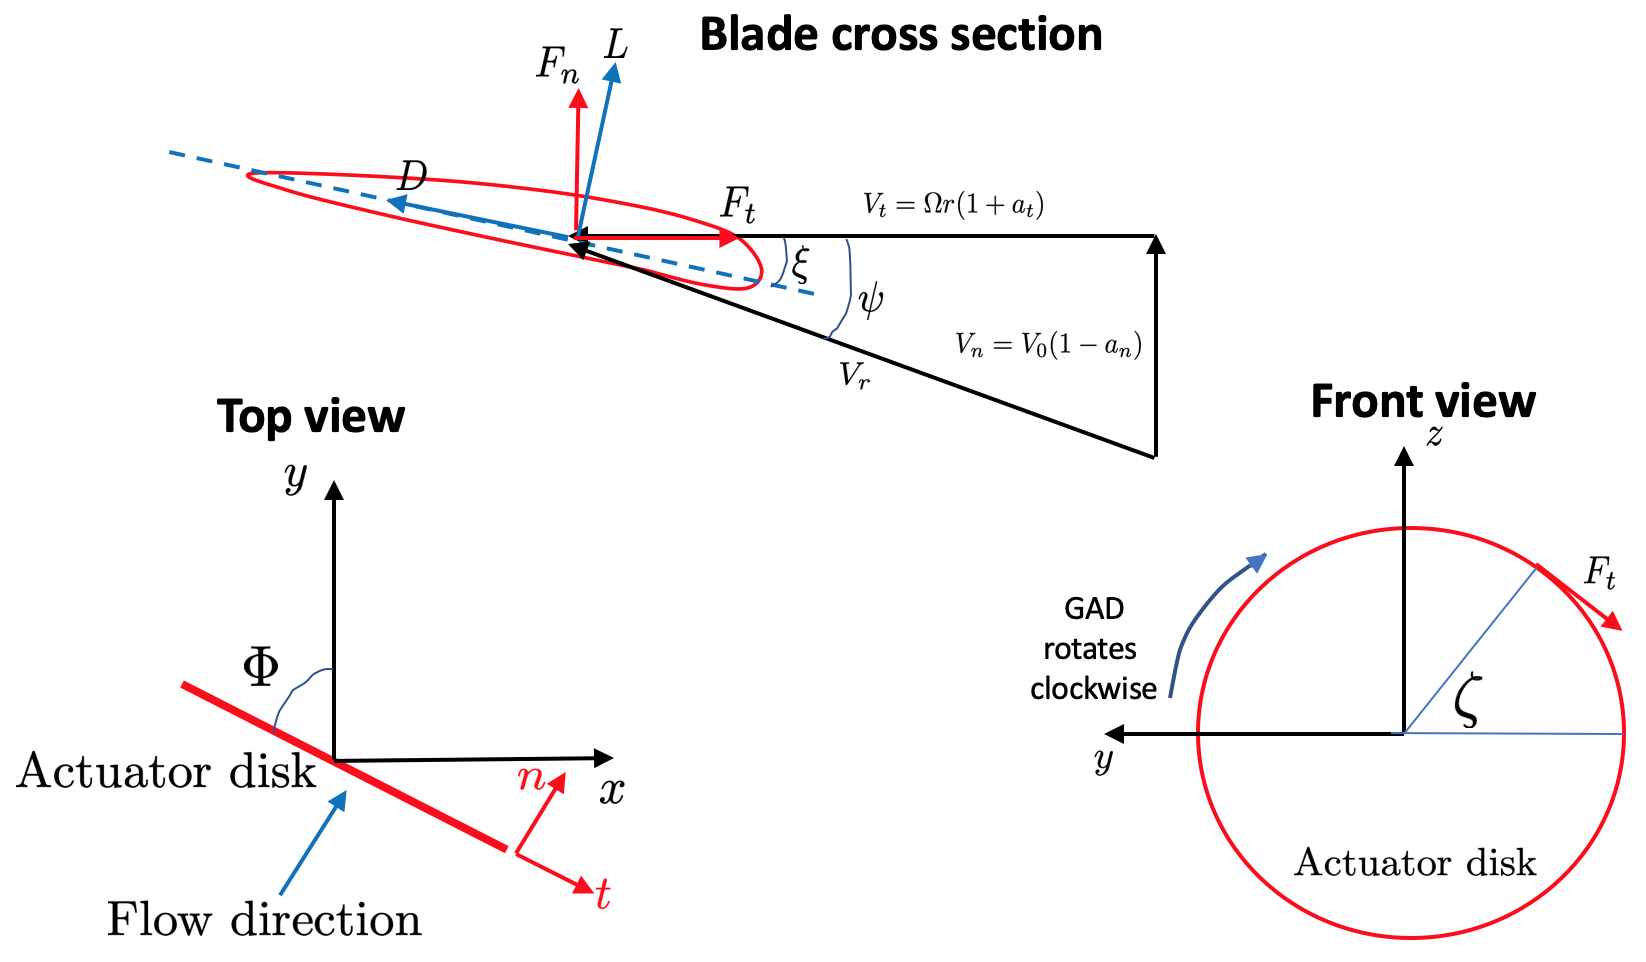
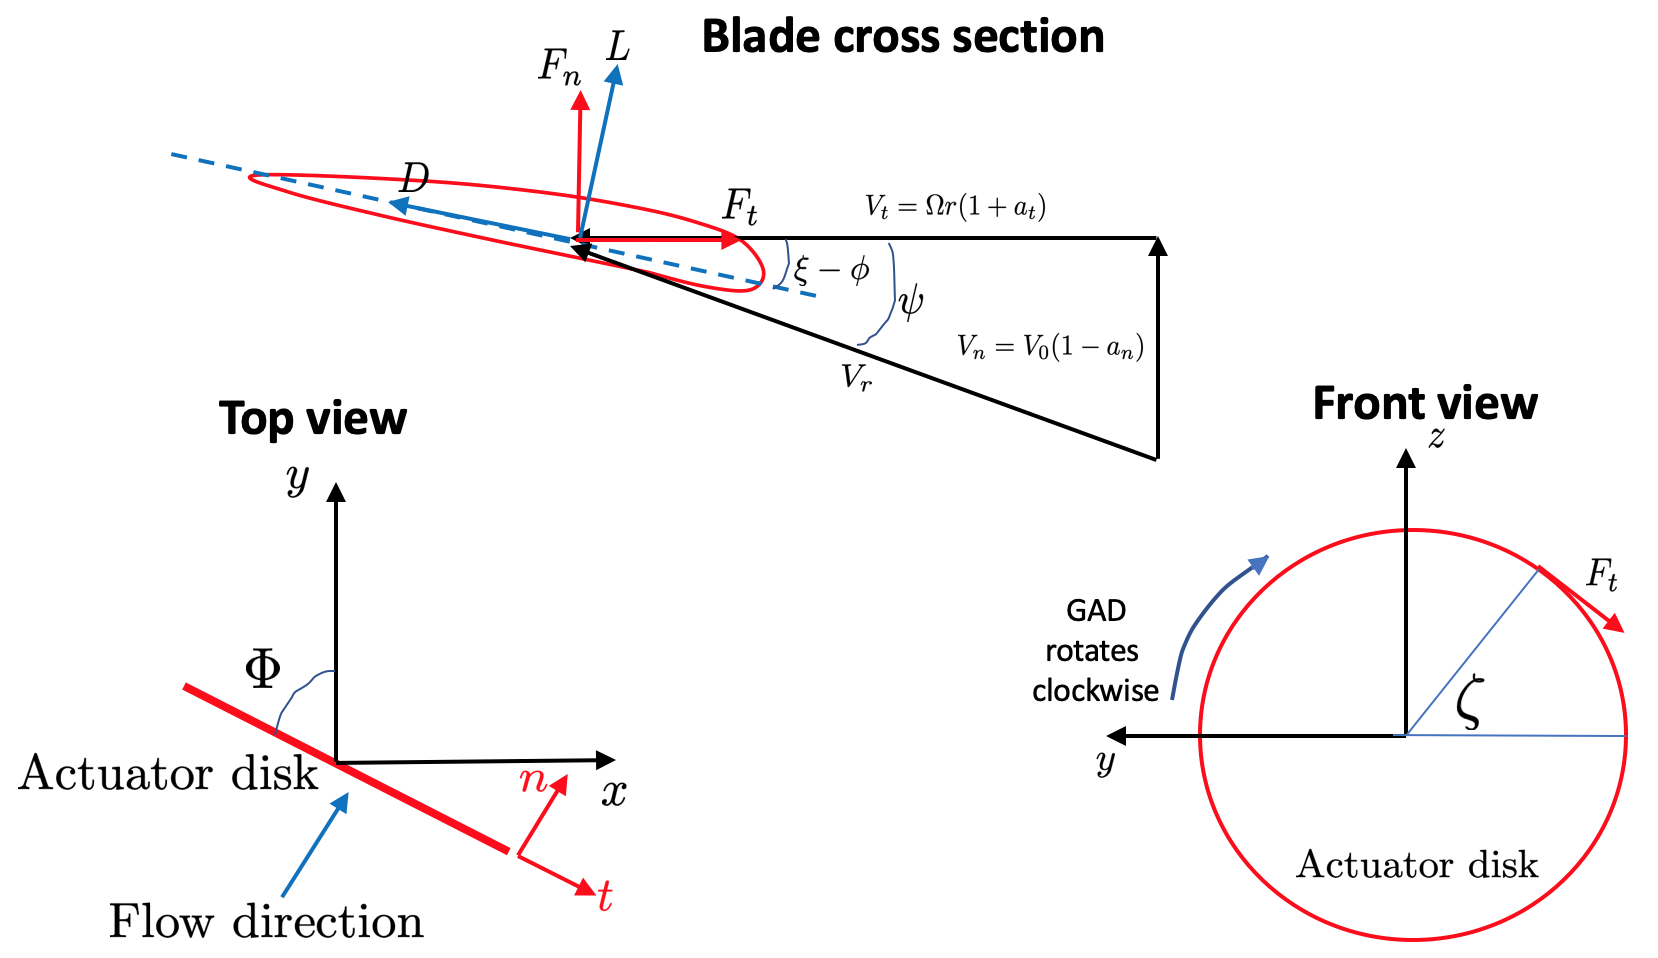
Some updates to docs (#1880)
* Some changes to docs

* Removing whitespaces and tabs

---------

diff --git a/Docs/sphinx_doc/theory/WindFarmModels.rst b/Docs/sphinx_doc/theory/WindFarmModels.rst
@@ -4,7 +4,7 @@ Wind farm models
 Introduction
 -------------
 
-ERF supports models for wind farm parametrization in which the effects of wind turbines are represented by imposing a momentum sink on the mean flow and/or turbulent kinetic energy (TKE). Currently the Fitch model (`Fitch et al. 2012`_), Explicit Wake Parametrization (EWP) model (`Volker et al. 2015`_) and Simplified actuator disk model (See Section 3.2 in `Wind Energy Handbook 2nd edition`_) are supported.
+ERF supports models for wind farm parametrization in which the effects of wind turbines are represented by imposing a momentum sink on the mean flow and/or turbulent kinetic energy (TKE). Currently the Fitch model (`Fitch et al. 2012`_), Explicit Wake Parametrization (EWP) model (`Volker et al. 2015`_), Simplified actuator disk model (See Section 3.2 in `Wind Energy Handbook 2nd edition`_), and Generalized actuator disk model (`Mirocha et. al. 2014`_, see Chapter 3 of `Small Wind Turbines`_) are supported.
 
 .. _Fitch model:
 
@@ -187,7 +187,7 @@ where :math:`dA` is the area of the actuator disk in the mesh cell (see Fig. :nu
 Generalized actuator disk model
 ===============================
 
-The generalized actuator model (GAD) based on blade element theory (`Mirocha et. al. 2014`_, see Chapter 3 of `Small Wind Turbines`_) is implemented. Similar to the simplified actuator disk model, GAD also models the wind turbine as a disk, but takes into account the details of the blade geometry (see :numref:`fig:GAD_Schematic`). The forces on the blades in the x, y, z directions are computed, and that contributes to the source terms for the fluid momentum equations. The source terms in a mesh cell inside the actuator disk are given as:
+The generalized actuator model (GAD) based on blade element theory (`Mirocha et. al. 2014`_, see Chapter 3 of `Small Wind Turbines`_) is implemented. Similar to the simplified actuator disk model, GAD also models the wind turbine as a disk, but takes into account the details of the blade geometry (see Fig. :numref:`fig:GAD_Schematic`). The forces on the blades in the x, y, z directions are computed, and that contributes to the source terms for the fluid momentum equations. The source terms in a mesh cell inside the actuator disk are given as:
 
 .. math::
    :label: GAD_source_terms
@@ -238,7 +238,7 @@ and
    V_n &= V_0(1-a_n) \\
    V_t &= \Omega(1+a_t)r,
 
-where :math:`\Omega` is the rotational speed of the turbine, :math:`r` is the radial location along the blade span, and :math:`a_n` and :math:`a_t` are the normal and tangential induction factors. The lift and drag forces are given by:
+where :math:`V_0` is the freestream velocity at a user specified distance upstream from the disk plane as described in Section :ref:`actuator_disk_model_simplified` (also see Fig. :numref:`fig:ActuatorDisk_Sampling`), :math:`\Omega` is the rotational speed of the turbine, :math:`r` is the radial location along the blade span, and :math:`a_n` and :math:`a_t` are the normal and tangential induction factors. The lift and drag forces are given by:
 
 .. math::
    :label: GAD_L_D
@@ -246,7 +246,7 @@ where :math:`\Omega` is the rotational speed of the turbine, :math:`r` is the ra
    L &= \frac{1}{2} \rho V_r^2 c C_l \\
    D &= \frac{1}{2} \rho V_r^2 c C_d,
 
-where :math:`\rho` is the density of air, :math:`c` is the chord length of the airfoil cross-section, :math:`C_l` and :math:`C_d` are the sectional lift and drag coefficients on the airfoil cross-section, and the relative wind velocity is :math:`V_r = \sqrt{V_n^2 + V_t^2}`. The normal and tangential sectional coefficients are computed as:
+where :math:`\rho` is the density of air, :math:`c` is the chord length of the airfoil cross-section, :math:`C_l` and :math:`C_d` are the sectional lift and drag coefficients on the airfoil cross-section (which is a function of the incoming angle :math:`\psi`, blade twist :math:`\xi`, and blade pitch :math:`\phi`. See Fig. :numref:`fig:GAD_Schematic`), and the relative wind velocity is :math:`V_r = \sqrt{V_n^2 + V_t^2}`. The normal and tangential sectional coefficients are computed as:
 
 .. math::
    :label: GAD_Cn_Ct
@@ -291,8 +291,8 @@ where :math:`r_\text{hub}` and :math:`r_\text{tip}` are the radius of the hub an
 An iterative procedure is needed to compute the source terms, and is as follows:
 
 1. An initial value is assumed for the normal and tangential induction factors :math:`a_n` and :math:`a_t`.
-2. Compute the normal and tangential velocities from Eqn. :eq:`GAD_Vn_Vt`.
-3. From the tables for the `details of the blade geometry`_ and the `sectional coefficients of the airfoil cross sections`_, compute the values of :math:`C_l` and :math:`C_d` corresponding to the radial location :math:`r` along the blade span and the angle of attack :math:`\alpha = \psi - \xi`.
+2. Compute the normal and tangential velocities from Eqn. :eq:`GAD_Vn_Vt`. .
+3. From the tables for the `turbine specifications`_, `details of the blade geometry`_ and the `sectional coefficients of the airfoil cross sections`_, compute the values of :math:`C_l` and :math:`C_d` corresponding to the radial location :math:`r` along the blade span and the angle of attack :math:`\alpha = \psi - \xi + \phi`.
 4. Compute the normal and tangential sectional coefficients :math:`C_n` and :math:`C_t` from Eqn. :eq:`GAD_Cn_Ct`.
 5. Compute the normal and tangential induction factors :math:`a_n` and :math:`a_t` using Eqn. :eq:`GAD_an_at`.
 6. Repeat steps 2 to 5 until the error in the normal and tangential induction factors, :math:`a_n` and :math:`a_t`, are less than :math:`1 \times 10^{-5}`.
@@ -301,16 +301,19 @@ An iterative procedure is needed to compute the source terms, and is as follows:
 9. Compute the forces on the disk using Eqn. :eq:`GAD_forces`.
 10. Compute the source terms in the momentum equation using Eqn. :eq:`GAD_source_terms`.
 
+
+
 .. _fig:GAD_Schematic:
 
 .. figure:: ../figures/GAD_Schematic.png
    :width: 600
    :align: center
 
-   Different views of the GAD showing the forces and angles involved: Blade cross section showing the normal (:math:`V_n`) and tangential (:math:`V_t`) components of velocity with the normal (:math:`a_n`) and tangential (:math:`a_t`) induction factors, relative wind velocity :math:`V_r`, blade twist angle :math:`\xi`, angle of relative wind :math:`\psi`, lift (:math:`L`) and drag (:math:`D`) forces, and normal (:math:`F_n`) and tangential (:math:`F_t`) forces; top view showing the flow direction and inclination angle :math:`\Phi`; and front view showing the actuator disk rotating clockwise.
+   Different views of the GAD showing the forces and angles involved: Blade cross section showing the normal (:math:`V_n`) and tangential (:math:`V_t`) components of velocity with the normal (:math:`a_n`) and tangential (:math:`a_t`) induction factors, relative wind velocity :math:`V_r`, blade twist angle :math:`\xi`, angle of relative wind :math:`\psi`, blade pitch angle :math:`\phi`, lift (:math:`L`) and drag (:math:`D`) forces, and normal (:math:`F_n`) and tangential (:math:`F_t`) forces; top view showing the flow direction and inclination angle :math:`\Phi`; and front view showing the actuator disk rotating clockwise.
 
 .. _`Mirocha et. al. 2014`: https://doi.org/10.1063/1.4861061
 .. _`Small Wind Turbines`: https://doi.org/10.1007/978-1-84996-175-2
+.. _`turbine specifications`: https://github.com/NREL/openfast-turbine-models/blob/main/IEA-scaled/NREL-2.8-127/NREL-2.82-127_performance.csv
 .. _`details of the blade geometry`: https://github.com/NREL/openfast-turbine-models/blob/main/IEA-scaled/NREL-2.8-127/20_monolithic_opt2/OpenFAST/NREL-2p8-127_AeroDyn15_blade.dat
 .. _`sectional coefficients of the airfoil cross sections` : https://github.com/NREL/openfast-turbine-models/tree/main/IEA-scaled/NREL-2.8-127/20_monolithic_opt2/OpenFAST/Airfoils
 
@@ -342,7 +345,7 @@ The following are the inputs required for wind farm simulations.
     // have the same specifications
     erf.windfarm_spec_table = "wind-turbine_1WT.tbl"
 
-    // For simplified actuator disk model the following parameters are needed
+    // In addition to the above, for simplified actuator disk model the following parameters are needed
 
     // The distance of the freestream velocity sampling disk from the turbine actuator
     // disk
@@ -350,6 +353,33 @@ The following are the inputs required for wind farm simulations.
 
     // The angle of the turbine actuator disk from the x axis
     erf.turb_disk_angle_from_x = 135.0
+
+    // In addition to the above, for generalized actuator disk model the following parameters are needed
+
+    // Table containing additional specification information of the wind turbine.
+    // See Note below
+    erf.windfarm_spec_table_extra = "NREL-2.82-127_performance.csv"
+
+    // Table containing details of blade geometry
+    // See Note below
+    erf.windfarm_blade_table = "NREL-2p8-127_AeroDyn15_blade.dat"
+
+    // Tables containing the sectional lift and drag coefficients for the
+    // blade airfoil cross-sections.
+    // See Note below.
+    erf.windfarm_airfoil_tables = "Airfoils"
+
+.. note::
+
+   The format for the files required for the generalized actuator disk model are
+
+   1. erf.windfarm_spec_table_extra = `NREL-2.82-127_performance.csv`_
+   2. erf.windfarm_blade_table = `NREL-2p8-127_AeroDyn15_blade.dat`_
+   3. erf.windfarm_airfoil_tables = `Airfoils`_.
+
+.. _`NREL-2.82-127_performance.csv`: https://github.com/NREL/openfast-turbine-models/blob/main/IEA-scaled/NREL-2.8-127/NREL-2.82-127_performance.csv
+.. _`NREL-2p8-127_AeroDyn15_blade.dat`: https://github.com/NREL/openfast-turbine-models/blob/main/IEA-scaled/NREL-2.8-127/20_monolithic_opt2/OpenFAST/NREL-2p8-127_AeroDyn15_blade.dat
+.. _`Airfoils`: https://github.com/NREL/openfast-turbine-models/tree/main/IEA-scaled/NREL-2.8-127/20_monolithic_opt2/OpenFAST/Airfoils
 
 1. ``erf.windfarm_type`` has to be one of the supported models - ``Fitch``, ``EWP``, ``SimpleActuatorDisk``.
 2. ``erf.windfarm_loc_type`` is a variable to specify how the wind turbine locations in the wind farm is specified. If using the latitude and longitude of the turbine location, this has to be ``lat_lon`` or if using x and y coordinates to specify the turbine locations, this input is ``x_y``.

diff --git a/Docs/sphinx_doc/theory/Buoyancy.rst b/Docs/sphinx_doc/theory/Buoyancy.rst
@@ -120,7 +120,7 @@ This expression for buoyancy is from `khairoutdinov2003cloud`_ and `bryan2002ben
 .. math::
 
     \begin{equation}
-    \mathbf{B} = \rho'\mathbf{g} \approx -\rho\Bigg(\frac{T'}{T} + 0.61 q_v' - q_c - q_p - \frac{p'}{p}\Bigg),
+    \mathbf{B} = \rho'\mathbf{g} \approx -\rho\Bigg(\frac{T'}{T} + 0.61 q_v' - q_c - q_p - \frac{p'}{p}\Bigg)\mathbf{g},
     \end{equation}
 
 The derivation follows. The total density is given by :math:`\rho = \rho_d(1 + q_v + q_c + q_p)`, which can be written as
